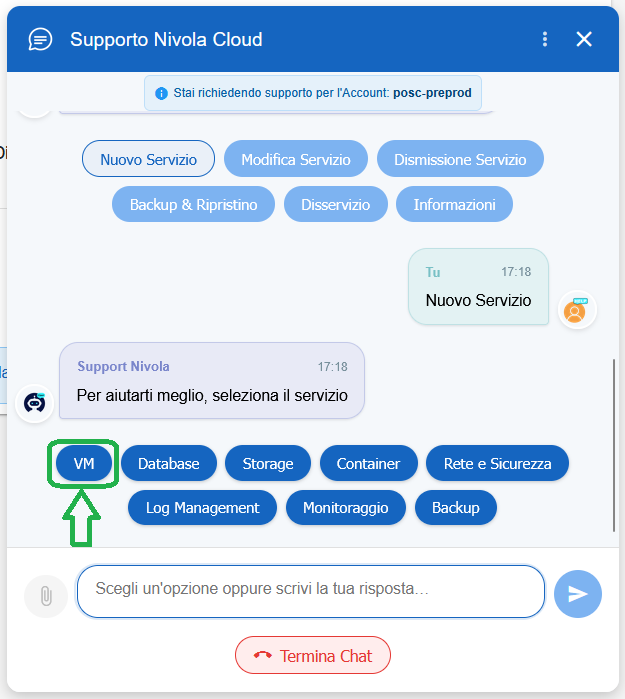
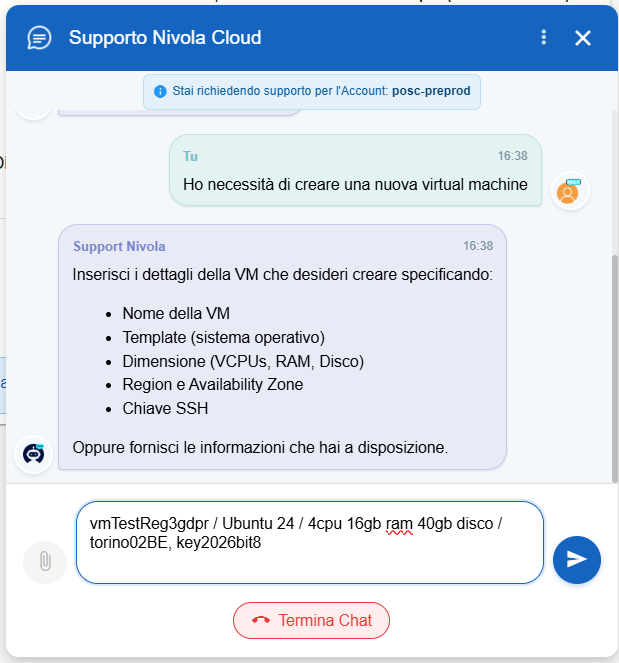
260930commit.4

diff --git a/docs/Come_fare_per/100.35_Creare_nuovo_ticket.rst b/docs/Come_fare_per/100.35_Creare_nuovo_ticket.rst
@@ -1,6 +1,6 @@
 
-**Creazione di un nuovo ticket**
-================================
+**Creazione manuale di un nuovo ticket**
+========================================
 
 La funzione rientra nel servizio **Assistenza**. Accedere al menù di creazione di un nuovo ticket cliccando sulla label **Nuova Richiesta** 
 sotto **Assistenza**:
@@ -9,71 +9,8 @@ sotto **Assistenza**:
 
 |
 
-Apparirà sulla destra il Chatbot del Supporto Nivola Cloud, con in primo piano l'Informativa sulla Privacy:
-
-.. image:: img/100.35_Nuovo_Ticket10.png
-
-|
-
-Dopo aver cliccato su "Ho capito" verrà mostrata la schermata di partenza in cui, oltre al messaggio di benvenuto,
-viene ricordato l'attuale account in uso:
-
-.. image:: img/100.35_Nuovo_Ticket11.png
-
-|
-
-Utilizzare il campo di input in basso per digitare le proprie domande / esigenze, quindi cliccare sulla
-corrispondente freccia blu sulla destra:
-
-.. image:: img/100.35_Nuovo_Ticket12.png
-
-|
-
-Percorriamo il caso specifico, per fornire un esempio utile di come utilizzarlo per aprire un ticket:
-
-.. image:: img/100.35_Nuovo_Ticket13.png
-
-.. image:: img/100.35_Nuovo_Ticket14.png
-
-.. image:: img/100.35_Nuovo_Ticket15.png
-
-.. image:: img/100.35_Nuovo_Ticket16.png
-
-.. image:: img/100.35_Nuovo_Ticket17.png
-
-.. image:: img/100.35_Nuovo_Ticket18.png
-
-|
-
-Al termine verrà mostrata la schermata riassuntiva dei dati inseriti e con i quali verrà aperto il ticket:
-
-.. image:: img/100.35_Nuovo_Ticket19.png
-
-|
-
-Cliccando su **Crea ticket** il ticket verrà aperto:
-
-.. image:: img/100.35_Nuovo_Ticket20.png
-
-|
-
-Dopo aver cliccato su **Fine** sarà possibile scaricare la trascrizione, aprire una nuova chat, oppure chiudere la 
-finestra del Chatbot:
-
-.. image:: img/100.35_Nuovo_Ticket21.png
-
-|
-
-E' comunque possibile richiamare il Chatbot in qualsiasi momento, cliccando sull'icona in basso a destra:
-
-.. image:: img/100.35_Nuovo_Ticket22.png
-
-|
-
-|
-
-Se invece di decide di seguire le scelte guidate da menù, cliccare subito su **Termina Chat** per chiudere la finestra 
-del Chatbot in modo da lasciare in primo piano il menù:
+Se si necessita di seguire manualmente e autonomamente di seguire le scelte guidate da menù, cliccare su **Termina Chat** per chiudere la finestra 
+dell'Assistente Digitale in modo da lasciare in primo piano il menù:
 
 .. image:: img/100.35_Nuovo_Ticket23.png
 

diff --git a/docs/Come_fare_per/100.37_Creare_nuovo_ticket_da_Chatbot.rst b/docs/Come_fare_per/100.37_Creare_nuovo_ticket_da_Chatbot.rst
@@ -1,0 +1,90 @@
+
+**Creazione di un nuovo ticket tramite l'Assistente Digitale**
+==============================================================
+
+La funzione rientra nel servizio **Assistenza**. Accedere al menù di creazione di un nuovo ticket cliccando sulla label **Nuova Richiesta** 
+sotto **Assistenza**:
+
+.. image:: img/100.35_Nuovo_TicketSX.png
+
+|
+
+Apparirà sulla destra l'Assistente Digitale del Supporto Nivola Cloud, con in primo piano l'Informativa sulla Privacy:
+
+.. image:: img/100.35_Nuovo_Ticket10.png
+
+|
+
+Dopo aver cliccato su "Ho capito" verrà mostrata la schermata di partenza in cui, oltre al messaggio di benvenuto,
+viene ricordato l'attuale account in uso:
+
+.. image:: img/100.35_Nuovo_Ticket11.png
+
+|
+
+Utilizzare il campo di input in basso per digitare le proprie domande / esigenze, quindi cliccare sulla
+corrispondente freccia blu sulla destra:
+
+.. image:: img/100.35_Nuovo_Ticket12.png
+
+|
+
+Percorriamo il caso specifico, per fornire un esempio utile di come utilizzarlo per aprire un ticket.
+Simuliamo la necessità di creare una nuova Virtual Machine, digitando la relativa richiesta:
+
+.. image:: img/100.35_Nuovo_Ticket13.png
+
+|
+
+Come indicato, inserire i dettagli della VM richiesti:
+
+- Nome della VM
+
+- Template (sistema operativo)
+
+- Dimensione (VCPUs, RAM, Disco)
+
+- Region e Availability Zone
+
+- Chiave SSH
+
+.. image:: img/100.35_Nuovo_Ticket14.png
+
+|
+
+Per sfruttare la possibilità di aprire il ticket, cliccare su **Apri ticket**
+
+.. image:: img/100.35_Nuovo_Ticket15.png
+
+|
+
+Eventualmente inserire un numero di telefono per essere ricontattato e mail aggiuntiva:
+
+.. image:: img/100.35_Nuovo_Ticket16.png
+
+.. image:: img/100.35_Nuovo_Ticket17.png
+
+|
+
+A fronte del riassunto di tutte le informazione inserite, cliccare su **Crea ticket**
+
+.. image:: img/100.35_Nuovo_Ticket18.png
+
+|
+
+Cliccando su **Crea ticket** il ticket verrà aperto:
+
+.. image:: img/100.35_Nuovo_Ticket20.png
+
+|
+
+Dopo aver cliccato su **Fine** sarà possibile scaricare la trascrizione, aprire una nuova chat, oppure chiudere la 
+finestra dell'Assistente Digitale:
+
+.. image:: img/100.35_Nuovo_Ticket21.png
+
+|
+
+E' comunque possibile richiamare l'Assistente Digitale in qualsiasi momento, cliccando sull'icona in basso a destra:
+
+.. image:: img/100.35_Nuovo_Ticket22.png

diff --git a/docs/Come_fare_per/100.36_Assistente_Digitale.rst b/docs/Come_fare_per/100.36_Assistente_Digitale.rst
@@ -1,0 +1,11 @@
+
+**Assistente Digitale**
+=======================
+
+L'Assistente Digitale permette di:
+
+- assistere l'utente nella preparazione e apertura ticket (vedi prossimo capitolo "Creazione di un nuovo ticket tramite l'Assistente Digitale*)
+
+- assistere l'utente per l'apertura di chat dirette con specialisti del Supporto 
+
+- assistere l'utente nel rispondere alle domande legate al mondo del Cloud Nivola

diff --git a/docs/Come_fare_per/100.01_Assistenza_Master.rst b/docs/Come_fare_per/100.01_Assistenza_Master.rst
@@ -14,5 +14,7 @@ Attraverso questo menù è possibile aprire delle segnalazione relative ad anoma
    100.20_Elenco_bozze.rst
    100.25_Cercare_E_Visualizzare_bozze.rst
    100.35_Creare_nuovo_ticket.rst
+   100.36_Assistente_Digitale.rst
+   100.37_Creare_nuovo_ticket_da_Chatbot.rst
    100.42_Cambio_stato_ticket.rst
    100.70_Integrazione_Richiesta_ITSM.rst
